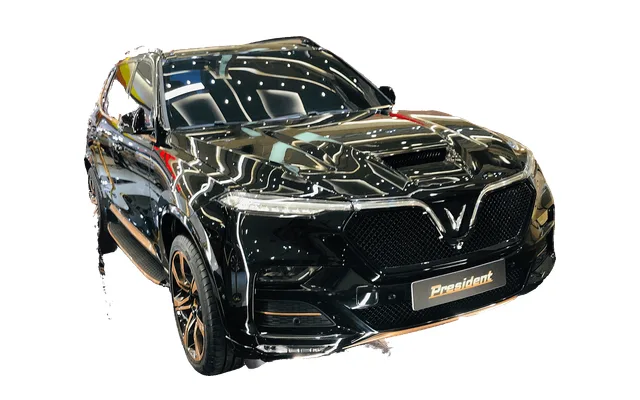
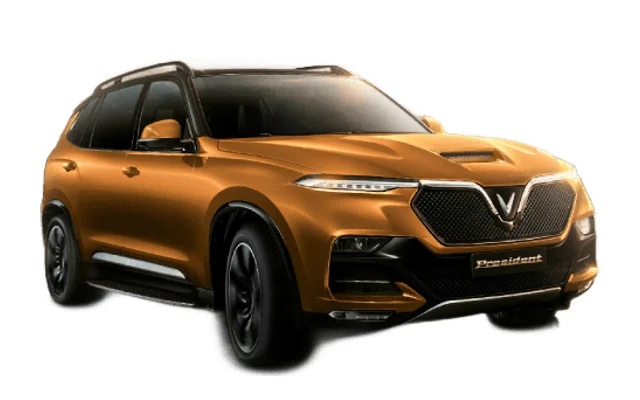
Update bi-gam VinFast hub: official studio photos for Lux A2.0 and President

diff --git a/auto365/bi-gam/vinfast/index.html b/auto365/bi-gam/vinfast/index.html
@@ -2042,7 +2042,6 @@ Tư vấn độ đèn cho từng dòng xe</a>
   <label class="bgvf-search"><svg viewBox="0 0 24 24" fill="none" stroke="currentColor" stroke-width="2"><circle cx="11" cy="11" r="7"/><path d="m20 20-3.5-3.5"/></svg><input id="bgvf-q" type="search" placeholder="Tìm dòng xe VinFast..." aria-label="Tìm dòng xe VinFast"></label>
  </div>
  <div class="bgvf-grid" id="bgvf-grid"><a class="bgvf-m" data-g="ev" data-n="vf 2" href="#tu-van" data-car="VinFast VF 2"><span class="im"><img src="../theo-hang-xe/hinh/m-vf2.webp" alt="VinFast VF 2" loading="lazy" width="640" height="400"></span><span class="bd"><b>VF 2<small>Liên hệ tư vấn</small></b><span class="go">→</span></span></a><a class="bgvf-m" data-g="ev" data-n="vf 3" href="../vinfast-vf3/"><span class="ok">Có hồ sơ</span><span class="im"><img src="../theo-hang-xe/hinh/m-vf3.webp" alt="VinFast VF 3" loading="lazy" width="640" height="400"></span><span class="bd"><b>VF 3<small>Xem hồ sơ bi gầm</small></b><span class="go">→</span></span></a><a class="bgvf-m" data-g="ev" data-n="vf 5" href="#tu-van" data-car="VinFast VF 5"><span class="im"><img src="../theo-hang-xe/hinh/m-vf5.webp" alt="VinFast VF 5" loading="lazy" width="640" height="400"></span><span class="bd"><b>VF 5<small>Liên hệ tư vấn</small></b><span class="go">→</span></span></a><a class="bgvf-m" data-g="ev" data-n="vf 6" href="vf6/"><span class="ok">Có hồ sơ</span><span class="im"><img src="../theo-hang-xe/hinh/m-vf6.webp" alt="VinFast VF 6" loading="lazy" width="640" height="400"></span><span class="bd"><b>VF 6<small>Xem hồ sơ bi gầm</small></b><span class="go">→</span></span></a><a class="bgvf-m" data-g="ev" data-n="vf 7" href="#tu-van" data-car="VinFast VF 7"><span class="im"><img src="../theo-hang-xe/hinh/m-vf7.webp" alt="VinFast VF 7" loading="lazy" width="640" height="400"></span><span class="bd"><b>VF 7<small>Liên hệ tư vấn</small></b><span class="go">→</span></span></a><a class="bgvf-m" data-g="ev" data-n="vf 8" href="#tu-van" data-car="VinFast VF 8"><span class="im"><img src="../theo-hang-xe/hinh/m-vf8.webp" alt="VinFast VF 8" loading="lazy" width="640" height="400"></span><span class="bd"><b>VF 8<small>Liên hệ tư vấn</small></b><span class="go">→</span></span></a><a class="bgvf-m" data-g="ev" data-n="vf 9" href="#tu-van" data-car="VinFast VF 9"><span class="im"><img src="../theo-hang-xe/hinh/m-vf9.webp" alt="VinFast VF 9" loading="lazy" width="640" height="400"></span><span class="bd"><b>VF 9<small>Liên hệ tư vấn</small></b><span class="go">→</span></span></a><a class="bgvf-m" data-g="ev" data-n="vf mpv 7" href="#tu-van" data-car="VinFast VF MPV 7"><span class="im"><img src="../theo-hang-xe/hinh/m-vf-mpv-7.webp" alt="VinFast VF MPV 7" loading="lazy" width="640" height="400"></span><span class="bd"><b>VF MPV 7<small>Liên hệ tư vấn</small></b><span class="go">→</span></span></a><a class="bgvf-m" data-g="green" data-n="minio green" href="#tu-van" data-car="VinFast Minio Green"><span class="im"><img src="../theo-hang-xe/hinh/m-minio-green.webp" alt="VinFast Minio Green" loading="lazy" width="640" height="400"></span><span class="bd"><b>Minio Green<small>Liên hệ tư vấn</small></b><span class="go">→</span></span></a><a class="bgvf-m" data-g="green" data-n="herio green" href="#tu-van" data-car="VinFast Herio Green"><span class="im"><img src="../theo-hang-xe/hinh/m-herio-green.webp" alt="VinFast Herio Green" loading="lazy" width="640" height="400"></span><span class="bd"><b>Herio Green<small>Liên hệ tư vấn</small></b><span class="go">→</span></span></a><a class="bgvf-m" data-g="green" data-n="nerio green" href="#tu-van" data-car="VinFast Nerio Green"><span class="im"><img src="../theo-hang-xe/hinh/m-nerio-green.webp" alt="VinFast Nerio Green" loading="lazy" width="640" height="400"></span><span class="bd"><b>Nerio Green<small>Liên hệ tư vấn</small></b><span class="go">→</span></span></a><a class="bgvf-m" data-g="green" data-n="limo green" href="limo-green/"><span class="ok">Có hồ sơ</span><span class="im"><img src="../theo-hang-xe/hinh/m-limo-green.webp" alt="VinFast Limo Green" loading="lazy" width="640" height="400"></span><span class="bd"><b>Limo Green<small>Xem hồ sơ bi gầm</small></b><span class="go">→</span></span></a><a class="bgvf-m" data-g="green" data-n="ec van" href="#tu-van" data-car="VinFast EC Van"><span class="im"><img src="../theo-hang-xe/hinh/m-ec-van.webp" alt="VinFast EC Van" loading="lazy" width="640" height="400"></span><span class="bd"><b>EC Van<small>Liên hệ tư vấn</small></b><span class="go">→</span></span></a><a class="bgvf-m" data-g="old" data-n="vf e34" href="#tu-van" data-car="VinFast VF e34"><span class="im"><img src="../vinfast-vf3/hinh/xe-vinfast-vfe34.jpg" alt="VinFast VF e34" loading="lazy" width="640" height="400"></span><span class="bd"><b>VF e34<small>Liên hệ tư vấn</small></b><span class="go">→</span></span></a><a class="bgvf-m" data-g="old" data-n="fadil" href="fadil/"><span class="ok">Có hồ sơ</span><span class="im"><img src="../vinfast-vf3/hinh/xe-vinfast-fadil.webp" alt="VinFast Fadil" loading="lazy" width="640" height="400"></span><span class="bd"><b>Fadil<small>Xem hồ sơ bi gầm</small></b><span class="go">→</span></span></a><a class="bgvf-m" data-g="old" data-n="lux a2.0" href="#tu-van" data-car="VinFast Lux A2.0"><span class="im"><img src="hinh/xe-vinfast-lux-a20.webp" alt="VinFast Lux A2.0" loading="lazy" width="640" height="400"></span><span class="bd"><b>Lux A2.0<small>Liên hệ tư vấn</small></b><span class="go">→</span></span></a><a class="bgvf-m" data-g="old" data-n="lux sa2.0" href="lux-sa20/"><span class="ok">Có hồ sơ</span><span class="im"><img src="../vinfast-vf3/hinh/xe-vinfast-lux-sa20.webp" alt="VinFast Lux SA2.0" loading="lazy" width="640" height="400"></span><span class="bd"><b>Lux SA2.0<small>Xem hồ sơ bi gầm</small></b><span class="go">→</span></span></a><a class="bgvf-m" data-g="old" data-n="president" href="#tu-van" data-car="VinFast President"><span class="im"><img src="hinh/xe-vinfast-president.webp" alt="VinFast President" loading="lazy" width="640" height="400"></span><span class="bd"><b>President<small>Liên hệ tư vấn</small></b><span class="go">→</span></span></a><p class="bgvf-empty" hidden="">Chưa có dòng xe phù hợp. Liên hệ hotline 0365 365 911 để được tư vấn.</p></div>
- <p class="bgvf-cr">Ảnh Lux A2.0 và President: Newone (CC BY-SA 4.0), qua Wikimedia Commons, đã tách nền.</p>
 </div></section>
 
 <section class="bght-sec" id="xe-thuc-te" style="padding-top:4px"><div class="bght-in">

diff --git a/auto365/bi-gam/vinfast/content-src.html b/auto365/bi-gam/vinfast/content-src.html
@@ -167,7 +167,6 @@
   <label class="bgvf-search"><svg viewBox="0 0 24 24" fill="none" stroke="currentColor" stroke-width="2"><circle cx="11" cy="11" r="7"/><path d="m20 20-3.5-3.5"/></svg><input id="bgvf-q" type="search" placeholder="Tìm dòng xe VinFast..." aria-label="Tìm dòng xe VinFast"></label>
  </div>
  <div class="bgvf-grid" id="bgvf-grid"></div>
- <p class="bgvf-cr">Ảnh Lux A2.0 và President: Newone (CC BY-SA 4.0), qua Wikimedia Commons, đã tách nền.</p>
 </div></section>
 
 <section class="bght-sec" id="xe-thuc-te" style="padding-top:4px"><div class="bght-in">
